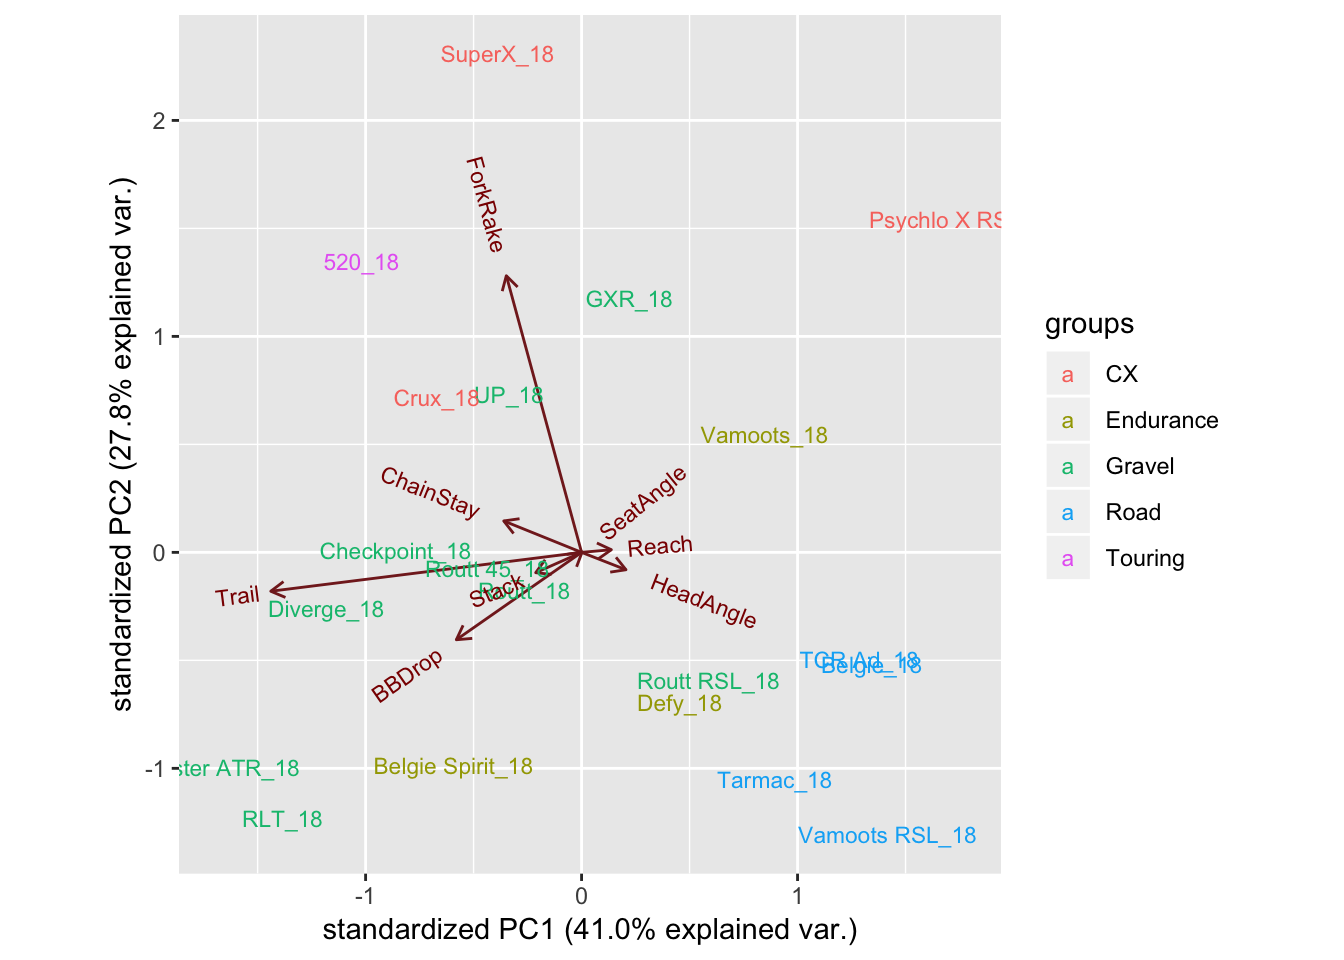
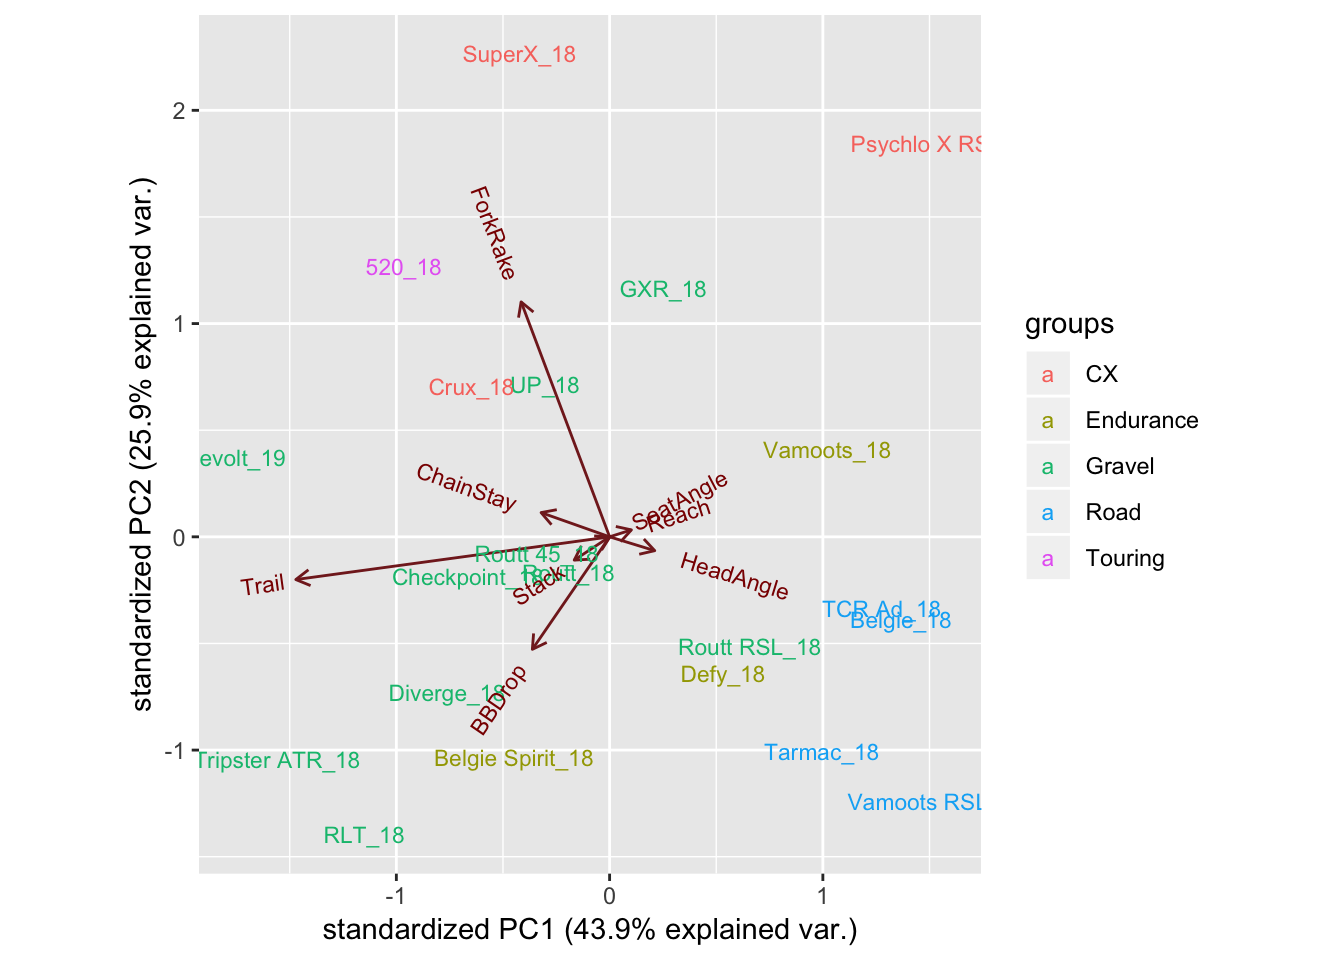
Geometry post: added gravel/end only pca; fixed table.

diff --git a/public/post/2018-11-08-geometry/index.html b/public/post/2018-11-08-geometry/index.html
@@ -27,7 +27,7 @@
 <meta name="twitter:card" content="summary" />
 <meta name="twitter:title" content="Geometry :: Acanthiza — data rides nature" />
 <meta name="twitter:description" content="Baffled by bike geometry? So am I, so don’t look for answers here. But here’s how I’ve helped myself scratch the surface of understanding…
-The main guide for the important numbers to chase was this CylingTips article. Gaps in geometry were filled in using this bike geometry calculator. There’s also geometrygeeks.com providing good explanations of what each term means a good.
+The main guide for the important numbers to chase was this CylingTips article. Gaps in geometry were filled in using this bike geometry calculator. There’s also geometrygeeks.com providing good explanations of each term.
 Analysing geometries accumulated from the web gives Figure 1." />
 <meta name="twitter:site" content="" />
 <meta name="twitter:creator" content="" />
@@ -145,8 +145,9 @@ Analysing geometries accumulated from the web gives Figure 1." />
 <hr />
 <p>Baffled by bike geometry? So am I, so don’t look for answers here. But here’s how I’ve helped myself scratch the surface of understanding…</p>
 <hr />
-<p>The main guide for the important numbers to chase was this <a href="https://cyclingtips.com/2011/02/the-geometry-of-bike-handling/">CylingTips article</a>. Gaps in geometry were filled in using this <a href="https://www.bikegeocalc.com/#7Unnameda0b4c743.9802d270e600.64877f769.85608g971.72104h412.76493i340j340k1335l813.03517m1133.98576n679.88726o1177.24813p889.84772q1213.32131r1345.15065s893.89606t31.8u40v6w2x10y280z40A0B150C25D370E45F172.5G30H30Z">bike geometry calculator</a>. There’s also <a href="https://geometrygeeks.bike/understanding-bike-geometry">geometrygeeks.com</a> providing good explanations of what each term means a good.</p>
+<p>The main guide for the important numbers to chase was this <a href="https://cyclingtips.com/2011/02/the-geometry-of-bike-handling/">CylingTips article</a>. Gaps in geometry were filled in using this <a href="https://www.bikegeocalc.com/#7Unnameda0b4c743.9802d270e600.64877f769.85608g971.72104h412.76493i340j340k1335l813.03517m1133.98576n679.88726o1177.24813p889.84772q1213.32131r1345.15065s893.89606t31.8u40v6w2x10y280z40A0B150C25D370E45F172.5G30H30Z">bike geometry calculator</a>. There’s also <a href="https://geometrygeeks.bike/understanding-bike-geometry">geometrygeeks.com</a> providing good explanations of each term.</p>
 <p>Analysing geometries accumulated from the web gives Figure <a href="#fig:pca">1</a>. The (blue) roadies cluster together and appear correlated with high head angle numbers and low chain stay numbers. Then there’s a smear of endurance/gravel bikes (in brown and green respectively). The cx bikes (in red) are spread on one half of the figure, apparently correlated with high fork rake numbers.</p>
+<p>Focussing on just the gravel (and endurance) bikes gives Figure <a href="#fig:pcaGravel">2</a></p>
 <hr />
 <div class="figure"><span id="fig:pca"></span>
 <img src="/post/2018-11-08-geometry_files/figure-html/pca-1.png" alt="Principal components analysis of key bike geometry values" width="672" />
@@ -156,8 +157,14 @@ Figure 1: Principal components analysis of key bike geometry values
 </div>
 <hr />
 <div id="htmlwidget-1" style="width:100%;height:auto;" class="datatables html-widget"></div>
-<script type="application/json" data-for="htmlwidget-1">{"x":{"filter":"none","data":[["1","2","3","4","5","6","7","8","9","10","11","12","13","14","15","16","17","18","19","20"],[73.5,73.5,73.5,73.5,73.5,73.5,73.5,73.8,73,73,72.5,73.5,73.8,74,74,73.5,73,73.5,73.5,73.5],[71.5,72.5,71.5,73.5,72.5,72.5,73,71.5,71.5,70.5,71,71.5,71,71,73,72.5,73,71.8,71.9,71],[69,69,69,72,76,61,69,72,70,70,70,69,70,69,72,70,68,76,85,75],[423,430,450,410,415,423,410,420,432,440,420,425,450,422,410,420,405,425,421,430],[47,45,47,43,50,50,45,45,51,45,50,50,52,55,44,45,45,49,50,45],[601,585,601,572,586,577,552,574,565,591.2,551,566,565,555,544,567,545,567,592,577],[373,381,373,387,377,390,381,374,381,384.7,376,382,378,378,384,377,383,383,373,374],[63,59,63,55,54,54,56,65,59,71,63,65,65,62,58,60,57,64,62,68]],"container":"<table class=\"display\">\n  <thead>\n    <tr>\n      <th> <\/th>\n      <th>SeatAngle<\/th>\n      <th>HeadAngle<\/th>\n      <th>BBDrop<\/th>\n      <th>ChainStay<\/th>\n      <th>ForkRake<\/th>\n      <th>Stack<\/th>\n      <th>Reach<\/th>\n      <th>Trail<\/th>\n    <\/tr>\n  <\/thead>\n<\/table>","options":{"columnDefs":[{"className":"dt-right","targets":[1,2,3,4,5,6,7,8]},{"orderable":false,"targets":0}],"order":[],"autoWidth":false,"orderClasses":false}},"evals":[],"jsHooks":[]}</script>
+<script type="application/json" data-for="htmlwidget-1">{"x":{"filter":"none","data":[["1","2","3","4","5","6","7","8","9","10","11","12","13","14","15","16","17","18","19","20","21"],["Routt","Routt RSL","Routt 45","Vamoots RSL","Vamoots","Psychlo X RSL","Belgie","Belgie Spirit","GXR","Tripster ATR","UP","Crux","520","SuperX","Tarmac","Defy","TCR Ad","Checkpoint","Diverge","RLT","Revolt"],[2018,2018,2018,2018,2018,2018,2018,2018,2018,2018,2018,2018,2018,2018,2018,2018,2018,2018,2018,2018,2019],["Gravel","Gravel","Gravel","Road","Endurance","CX","Road","Endurance","Gravel","Gravel","Gravel","CX","Touring","CX","Road","Endurance","Road","Gravel","Gravel","Gravel","Gravel"],[73.5,73.5,73.5,73.5,73.5,73.5,73.5,73.8,73,73,72.5,73.5,73.8,74,74,73.5,73,73.5,73.5,73.5,73.5],[71.5,72.5,71.5,73.5,72.5,72.5,73,71.5,71.5,70.5,71,71.5,71,71,73,72.5,73,71.8,71.9,71,70.5],[69,69,69,72,76,61,69,72,70,70,70,69,70,69,72,70,68,76,85,75,70],[423,430,450,410,415,423,410,420,432,440,420,425,450,422,410,420,405,425,421,430,425],[47,45,47,43,50,50,45,45,51,45,50,50,52,55,44,45,45,49,50,45,50],[601,585,601,572,586,577,552,574,565,591.2,551,566,565,555,544,567,545,567,592,577,572],[373,381,373,387,377,390,381,374,381,384.7,376,382,378,378,384,377,383,383,373,374,381],[63,59,63,55,54,54,56,65,59,71,63,65,65,62,58,60,57,64,62,68,71]],"container":"<table class=\"display\">\n  <thead>\n    <tr>\n      <th> <\/th>\n      <th>Frame<\/th>\n      <th>Year<\/th>\n      <th>Use<\/th>\n      <th>SeatAngle<\/th>\n      <th>HeadAngle<\/th>\n      <th>BBDrop<\/th>\n      <th>ChainStay<\/th>\n      <th>ForkRake<\/th>\n      <th>Stack<\/th>\n      <th>Reach<\/th>\n      <th>Trail<\/th>\n    <\/tr>\n  <\/thead>\n<\/table>","options":{"columnDefs":[{"className":"dt-right","targets":[2,4,5,6,7,8,9,10,11]},{"orderable":false,"targets":0}],"order":[],"autoWidth":false,"orderClasses":false}},"evals":[],"jsHooks":[]}</script>
 <hr />
+<div class="figure"><span id="fig:pcaGravel"></span>
+<img src="/post/2018-11-08-geometry_files/figure-html/pcaGravel-1.png" alt="PCA for just the grave/endurance bikes" width="672" />
+<p class="caption">
+Figure 2: PCA for just the grave/endurance bikes
+</p>
+</div>
 <div id="acknowledgements" class="section level1">
 <h1>Acknowledgements</h1>
 <table>

diff --git a/content/post/2018-11-08-geometry.html b/content/post/2018-11-08-geometry.html
@@ -28,8 +28,9 @@ tags:
 <hr />
 <p>Baffled by bike geometry? So am I, so don’t look for answers here. But here’s how I’ve helped myself scratch the surface of understanding…</p>
 <hr />
-<p>The main guide for the important numbers to chase was this <a href="https://cyclingtips.com/2011/02/the-geometry-of-bike-handling/">CylingTips article</a>. Gaps in geometry were filled in using this <a href="https://www.bikegeocalc.com/#7Unnameda0b4c743.9802d270e600.64877f769.85608g971.72104h412.76493i340j340k1335l813.03517m1133.98576n679.88726o1177.24813p889.84772q1213.32131r1345.15065s893.89606t31.8u40v6w2x10y280z40A0B150C25D370E45F172.5G30H30Z">bike geometry calculator</a>. There’s also <a href="https://geometrygeeks.bike/understanding-bike-geometry">geometrygeeks.com</a> providing good explanations of what each term means a good.</p>
+<p>The main guide for the important numbers to chase was this <a href="https://cyclingtips.com/2011/02/the-geometry-of-bike-handling/">CylingTips article</a>. Gaps in geometry were filled in using this <a href="https://www.bikegeocalc.com/#7Unnameda0b4c743.9802d270e600.64877f769.85608g971.72104h412.76493i340j340k1335l813.03517m1133.98576n679.88726o1177.24813p889.84772q1213.32131r1345.15065s893.89606t31.8u40v6w2x10y280z40A0B150C25D370E45F172.5G30H30Z">bike geometry calculator</a>. There’s also <a href="https://geometrygeeks.bike/understanding-bike-geometry">geometrygeeks.com</a> providing good explanations of each term.</p>
 <p>Analysing geometries accumulated from the web gives Figure <a href="#fig:pca">1</a>. The (blue) roadies cluster together and appear correlated with high head angle numbers and low chain stay numbers. Then there’s a smear of endurance/gravel bikes (in brown and green respectively). The cx bikes (in red) are spread on one half of the figure, apparently correlated with high fork rake numbers.</p>
+<p>Focussing on just the gravel (and endurance) bikes gives Figure <a href="#fig:pcaGravel">2</a></p>
 <hr />
 <div class="figure"><span id="fig:pca"></span>
 <img src="/post/2018-11-08-geometry_files/figure-html/pca-1.png" alt="Principal components analysis of key bike geometry values" width="672" />
@@ -39,8 +40,14 @@ Figure 1: Principal components analysis of key bike geometry values
 </div>
 <hr />
 <div id="htmlwidget-1" style="width:100%;height:auto;" class="datatables html-widget"></div>
-<script type="application/json" data-for="htmlwidget-1">{"x":{"filter":"none","data":[["1","2","3","4","5","6","7","8","9","10","11","12","13","14","15","16","17","18","19","20"],[73.5,73.5,73.5,73.5,73.5,73.5,73.5,73.8,73,73,72.5,73.5,73.8,74,74,73.5,73,73.5,73.5,73.5],[71.5,72.5,71.5,73.5,72.5,72.5,73,71.5,71.5,70.5,71,71.5,71,71,73,72.5,73,71.8,71.9,71],[69,69,69,72,76,61,69,72,70,70,70,69,70,69,72,70,68,76,85,75],[423,430,450,410,415,423,410,420,432,440,420,425,450,422,410,420,405,425,421,430],[47,45,47,43,50,50,45,45,51,45,50,50,52,55,44,45,45,49,50,45],[601,585,601,572,586,577,552,574,565,591.2,551,566,565,555,544,567,545,567,592,577],[373,381,373,387,377,390,381,374,381,384.7,376,382,378,378,384,377,383,383,373,374],[63,59,63,55,54,54,56,65,59,71,63,65,65,62,58,60,57,64,62,68]],"container":"<table class=\"display\">\n  <thead>\n    <tr>\n      <th> <\/th>\n      <th>SeatAngle<\/th>\n      <th>HeadAngle<\/th>\n      <th>BBDrop<\/th>\n      <th>ChainStay<\/th>\n      <th>ForkRake<\/th>\n      <th>Stack<\/th>\n      <th>Reach<\/th>\n      <th>Trail<\/th>\n    <\/tr>\n  <\/thead>\n<\/table>","options":{"columnDefs":[{"className":"dt-right","targets":[1,2,3,4,5,6,7,8]},{"orderable":false,"targets":0}],"order":[],"autoWidth":false,"orderClasses":false}},"evals":[],"jsHooks":[]}</script>
+<script type="application/json" data-for="htmlwidget-1">{"x":{"filter":"none","data":[["1","2","3","4","5","6","7","8","9","10","11","12","13","14","15","16","17","18","19","20","21"],["Routt","Routt RSL","Routt 45","Vamoots RSL","Vamoots","Psychlo X RSL","Belgie","Belgie Spirit","GXR","Tripster ATR","UP","Crux","520","SuperX","Tarmac","Defy","TCR Ad","Checkpoint","Diverge","RLT","Revolt"],[2018,2018,2018,2018,2018,2018,2018,2018,2018,2018,2018,2018,2018,2018,2018,2018,2018,2018,2018,2018,2019],["Gravel","Gravel","Gravel","Road","Endurance","CX","Road","Endurance","Gravel","Gravel","Gravel","CX","Touring","CX","Road","Endurance","Road","Gravel","Gravel","Gravel","Gravel"],[73.5,73.5,73.5,73.5,73.5,73.5,73.5,73.8,73,73,72.5,73.5,73.8,74,74,73.5,73,73.5,73.5,73.5,73.5],[71.5,72.5,71.5,73.5,72.5,72.5,73,71.5,71.5,70.5,71,71.5,71,71,73,72.5,73,71.8,71.9,71,70.5],[69,69,69,72,76,61,69,72,70,70,70,69,70,69,72,70,68,76,85,75,70],[423,430,450,410,415,423,410,420,432,440,420,425,450,422,410,420,405,425,421,430,425],[47,45,47,43,50,50,45,45,51,45,50,50,52,55,44,45,45,49,50,45,50],[601,585,601,572,586,577,552,574,565,591.2,551,566,565,555,544,567,545,567,592,577,572],[373,381,373,387,377,390,381,374,381,384.7,376,382,378,378,384,377,383,383,373,374,381],[63,59,63,55,54,54,56,65,59,71,63,65,65,62,58,60,57,64,62,68,71]],"container":"<table class=\"display\">\n  <thead>\n    <tr>\n      <th> <\/th>\n      <th>Frame<\/th>\n      <th>Year<\/th>\n      <th>Use<\/th>\n      <th>SeatAngle<\/th>\n      <th>HeadAngle<\/th>\n      <th>BBDrop<\/th>\n      <th>ChainStay<\/th>\n      <th>ForkRake<\/th>\n      <th>Stack<\/th>\n      <th>Reach<\/th>\n      <th>Trail<\/th>\n    <\/tr>\n  <\/thead>\n<\/table>","options":{"columnDefs":[{"className":"dt-right","targets":[2,4,5,6,7,8,9,10,11]},{"orderable":false,"targets":0}],"order":[],"autoWidth":false,"orderClasses":false}},"evals":[],"jsHooks":[]}</script>
 <hr />
+<div class="figure"><span id="fig:pcaGravel"></span>
+<img src="/post/2018-11-08-geometry_files/figure-html/pcaGravel-1.png" alt="PCA for just the grave/endurance bikes" width="672" />
+<p class="caption">
+Figure 2: PCA for just the grave/endurance bikes
+</p>
+</div>
 <div id="acknowledgements" class="section level1">
 <h1>Acknowledgements</h1>
 <table>

diff --git a/public/categories/bike/index.html b/public/categories/bike/index.html
@@ -137,7 +137,7 @@
         
           
             Baffled by bike geometry? So am I, so don’t look for answers here. But here’s how I’ve helped myself scratch the surface of understanding…
-The main guide for the important numbers to chase was this CylingTips article. Gaps in geometry were filled in using this bike geometry calculator. There’s also geometrygeeks.com providing good explanations of what each term means a good.
+The main guide for the important numbers to chase was this CylingTips article. Gaps in geometry were filled in using this bike geometry calculator. There’s also geometrygeeks.com providing good explanations of each term.
 Analysing geometries accumulated from the web gives Figure 1.
           
         

diff --git a/public/categories/data/index.html b/public/categories/data/index.html
@@ -137,7 +137,7 @@
         
           
             Baffled by bike geometry? So am I, so don’t look for answers here. But here’s how I’ve helped myself scratch the surface of understanding…
-The main guide for the important numbers to chase was this CylingTips article. Gaps in geometry were filled in using this bike geometry calculator. There’s also geometrygeeks.com providing good explanations of what each term means a good.
+The main guide for the important numbers to chase was this CylingTips article. Gaps in geometry were filled in using this bike geometry calculator. There’s also geometrygeeks.com providing good explanations of each term.
 Analysing geometries accumulated from the web gives Figure 1.
           
         

diff --git a/public/categories/r/index.html b/public/categories/r/index.html
@@ -137,7 +137,7 @@
         
           
             Baffled by bike geometry? So am I, so don’t look for answers here. But here’s how I’ve helped myself scratch the surface of understanding…
-The main guide for the important numbers to chase was this CylingTips article. Gaps in geometry were filled in using this bike geometry calculator. There’s also geometrygeeks.com providing good explanations of what each term means a good.
+The main guide for the important numbers to chase was this CylingTips article. Gaps in geometry were filled in using this bike geometry calculator. There’s also geometrygeeks.com providing good explanations of each term.
 Analysing geometries accumulated from the web gives Figure 1.
           
         

diff --git a/public/index.html b/public/index.html
@@ -138,7 +138,7 @@
         
           
             Baffled by bike geometry? So am I, so don’t look for answers here. But here’s how I’ve helped myself scratch the surface of understanding…
-The main guide for the important numbers to chase was this CylingTips article. Gaps in geometry were filled in using this bike geometry calculator. There’s also geometrygeeks.com providing good explanations of what each term means a good.
+The main guide for the important numbers to chase was this CylingTips article. Gaps in geometry were filled in using this bike geometry calculator. There’s also geometrygeeks.com providing good explanations of each term.
 Analysing geometries accumulated from the web gives Figure 1.
           
         

diff --git a/public/post/index.html b/public/post/index.html
@@ -137,7 +137,7 @@
         
           
             Baffled by bike geometry? So am I, so don’t look for answers here. But here’s how I’ve helped myself scratch the surface of understanding…
-The main guide for the important numbers to chase was this CylingTips article. Gaps in geometry were filled in using this bike geometry calculator. There’s also geometrygeeks.com providing good explanations of what each term means a good.
+The main guide for the important numbers to chase was this CylingTips article. Gaps in geometry were filled in using this bike geometry calculator. There’s also geometrygeeks.com providing good explanations of each term.
 Analysing geometries accumulated from the web gives Figure 1.
           
         

diff --git a/public/tags/bikes/index.html b/public/tags/bikes/index.html
@@ -137,7 +137,7 @@
         
           
             Baffled by bike geometry? So am I, so don’t look for answers here. But here’s how I’ve helped myself scratch the surface of understanding…
-The main guide for the important numbers to chase was this CylingTips article. Gaps in geometry were filled in using this bike geometry calculator. There’s also geometrygeeks.com providing good explanations of what each term means a good.
+The main guide for the important numbers to chase was this CylingTips article. Gaps in geometry were filled in using this bike geometry calculator. There’s also geometrygeeks.com providing good explanations of each term.
 Analysing geometries accumulated from the web gives Figure 1.
           
         

diff --git a/public/tags/data/index.html b/public/tags/data/index.html
@@ -137,7 +137,7 @@
         
           
             Baffled by bike geometry? So am I, so don’t look for answers here. But here’s how I’ve helped myself scratch the surface of understanding…
-The main guide for the important numbers to chase was this CylingTips article. Gaps in geometry were filled in using this bike geometry calculator. There’s also geometrygeeks.com providing good explanations of what each term means a good.
+The main guide for the important numbers to chase was this CylingTips article. Gaps in geometry were filled in using this bike geometry calculator. There’s also geometrygeeks.com providing good explanations of each term.
 Analysing geometries accumulated from the web gives Figure 1.
           
         

diff --git a/public/tags/geometry/index.html b/public/tags/geometry/index.html
@@ -137,7 +137,7 @@
         
           
             Baffled by bike geometry? So am I, so don’t look for answers here. But here’s how I’ve helped myself scratch the surface of understanding…
-The main guide for the important numbers to chase was this CylingTips article. Gaps in geometry were filled in using this bike geometry calculator. There’s also geometrygeeks.com providing good explanations of what each term means a good.
+The main guide for the important numbers to chase was this CylingTips article. Gaps in geometry were filled in using this bike geometry calculator. There’s also geometrygeeks.com providing good explanations of each term.
 Analysing geometries accumulated from the web gives Figure 1.
           
         
